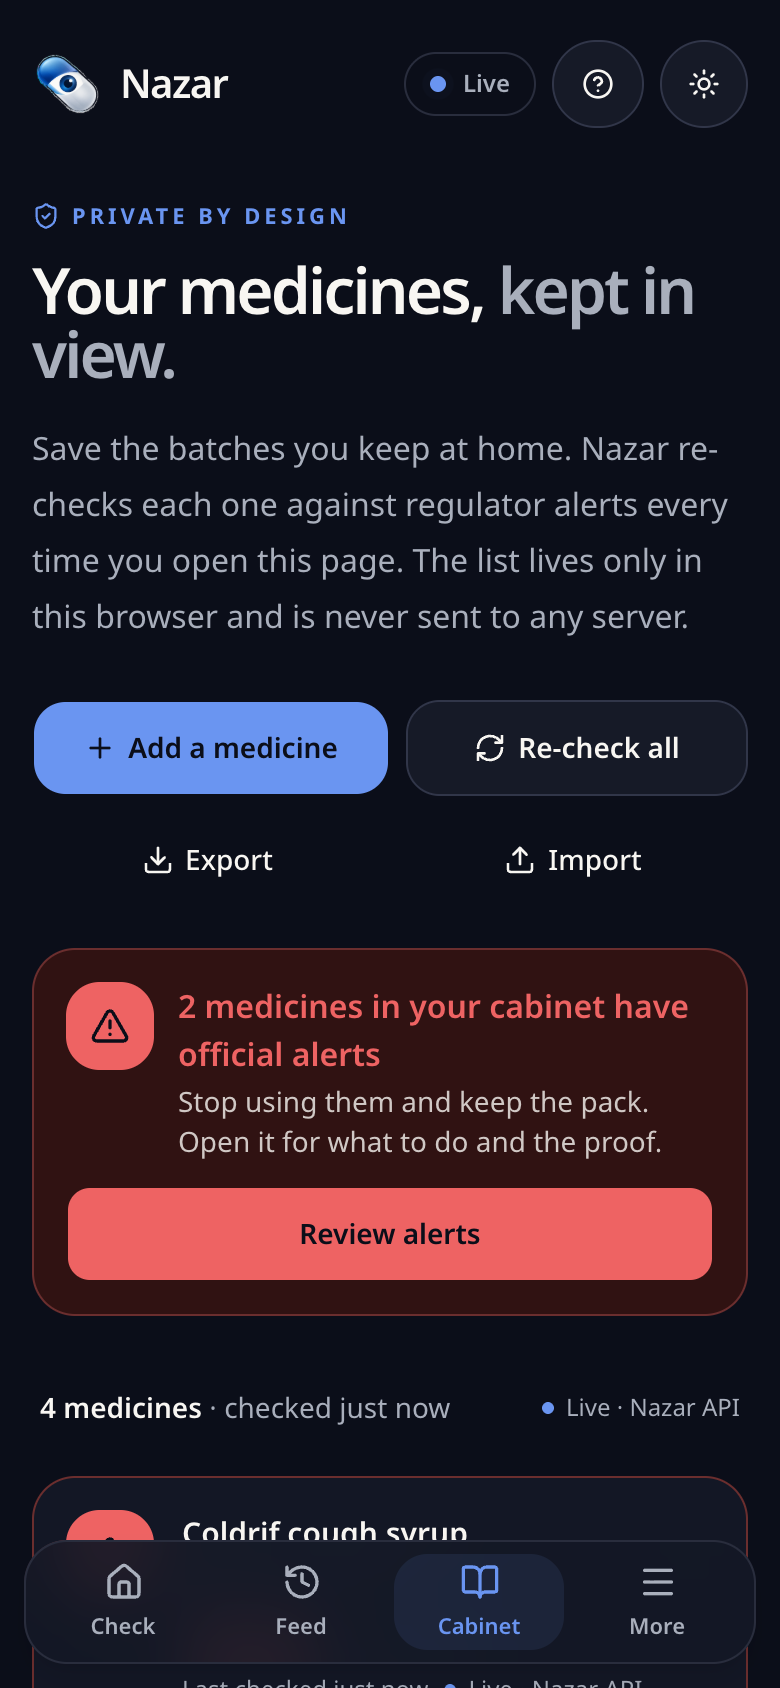
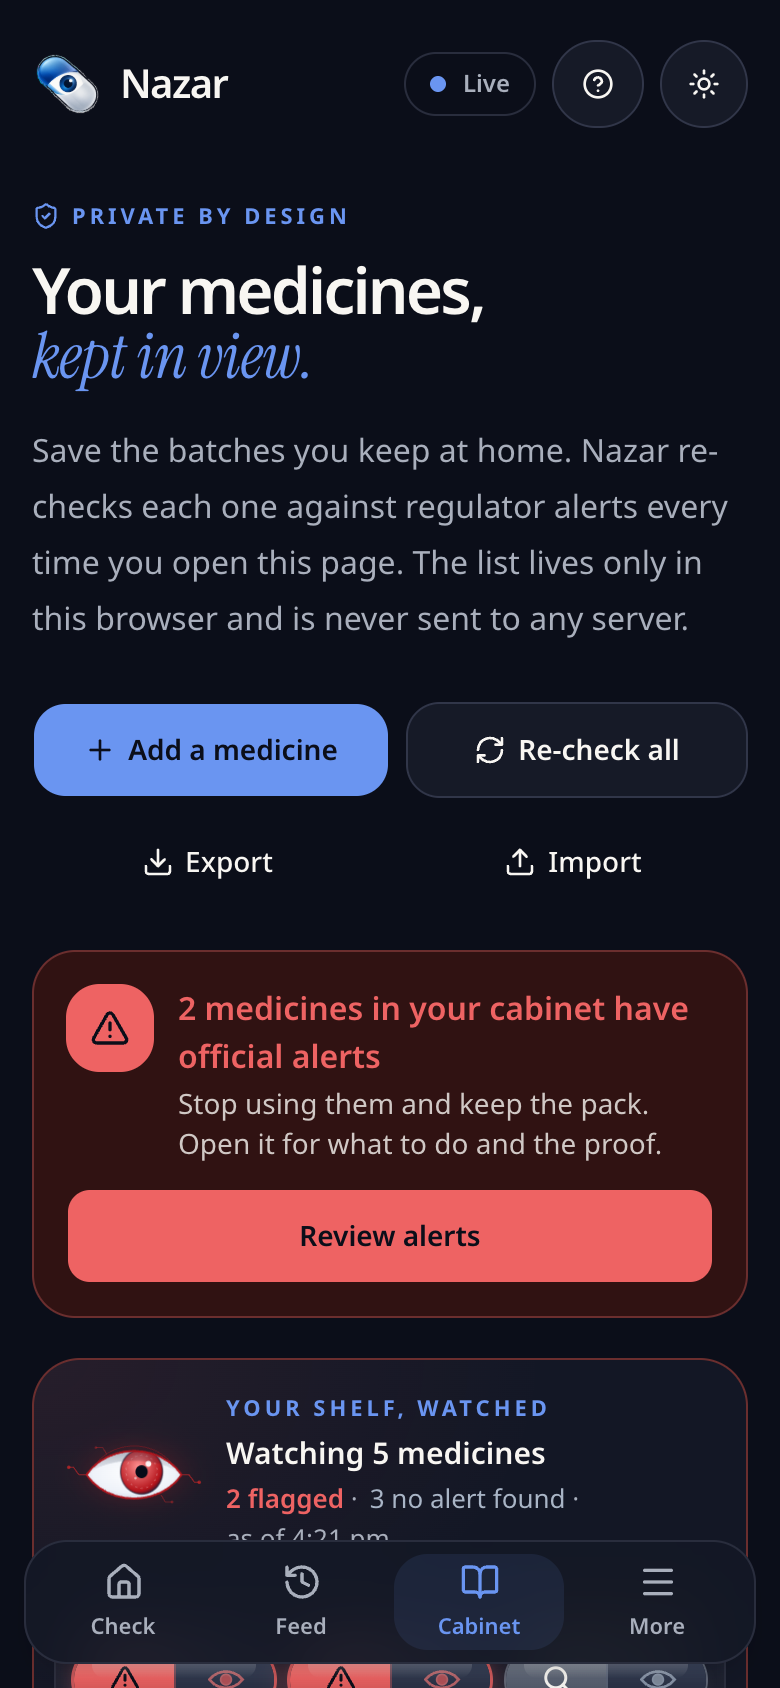
README: new screenshots; daily refresh of the site's saved snapshot
- Screenshots from the live site: the watching eye (idle and flagged),
  the Arkiv particle hero at rest and under the cursor, the Feed's India
  pulse, the Cabinet shelf, How it works, the scanner with the eye, and
  the /b/SR-13 share page with its preview card. Unused shots removed.
- Feature table and test counts updated; a note on how the pipeline
  keeps itself up to date.
- New workflow: once a day, fetch the API snapshot into
  public/data/snapshot.json and commit it only if the alert set changed
  (the snapshot's content hash), which redeploys the site.

diff --git a/README.md b/README.md
@@ -39,7 +39,8 @@ Nazar turns those scattered notices into one live, verifiable feed that a chemis
 
 | | Feature | What it does |
 |---|---|---|
-| 🔎 | **Check a batch** | Type the batch number from the pack and get one of four honest answers: **Flagged**, **Retracted**, **No alert found** or **Can't tell**. Look-alike characters (0/O, 1/I/L, 5/S, 8/B) only ever produce "Did you mean…?", never a flag. |
+| 🔎 | **Check a batch** | Type the batch number from the pack and get one of four honest answers: **Flagged**, **Retracted**, **No alert found** or **Can't tell**. Look-alike characters (0/O, 1/I/L, 5/S, 8/B) only ever produce "Did you mean…?", never a flag. A watching eye mirrors the check: it looks at the batch box while you type, scans while checking, then turns red, amber or slate (never green). |
+| 🔗 | **Share a result** | Every batch has a public page, `/b/SR-13`, with its own preview card for WhatsApp and social apps, the regulator notice, the Arkiv proof and "Check your own batch". Share, Copy link and WhatsApp sit right under "What to do"; `/?batch=` links open a check directly. |
 | 📷 | **Strip Scan** | Point the camera at the pack, or upload a photo. QR, Data Matrix and GS1 codes are decoded on the device (BarcodeDetector or zxing-wasm), with an OCR fallback for the printed "B.No." line. If the code and the printed batch disagree you see "Label details don't match. Show this pack to your chemist." Images never leave the phone. |
 | 🏷 | **Pack Reader** | The scanner reads the whole label on the device: product, composition and strengths, form, pack size, manufacturer and state, licence number, MRP and Schedule, each with a confidence you can edit. |
 | 🤖 | **About this medicine (opt-in)** | Tap "Show general information" for plain-language notes: what it is for, how it works, common side effects, when to get help, who should be careful, storage and prescription status. It comes from a strictly validated AI answer (Gemini) and is clearly labelled *AI-generated · not from a regulator*, kept apart from the official verdict. No doses, never "safe", and the batch number is never sent. Rate-limited per visitor, with a daily cap. |
@@ -47,40 +48,62 @@ Nazar turns those scattered notices into one live, verifiable feed that a chemis
 | 🧒 | **Child Shield** | Paediatric formulations with serious failures get a banner telling parents to contact a doctor now. |
 | ⚖ | **Severity with reasons** | A versioned rule table, not a black box: "Adulterated with a toxic glycol: base 5 · Paediatric formulation: +1 (capped at 5)". |
 | 🔗 | **On-chain proof** | Every result shows the chain of custody: regulator document → SHA-256 → Arkiv notice entity → this alert entity. It also shows the transaction link, an "Official Nazar publisher" check against `$creator`, and the Read-only and Anyone-can-keep-alive flags. |
-| 📰 | **Feed** | Every alert, newest first, grouped by month. Filter by severity, Child Shield, state of manufacture and source. Filters sync to the URL. |
-| 💊 | **Medicine cabinet** | Save the batches you keep at home. Each is re-checked whenever you open the page, flagged ones float to the top, and expired or expiring packs are called out. It lives only in your browser (export and import as JSON). |
-| ⛓ | **Arkiv directory** | A structured explorer of everything Nazar has on chain: live counts and breakdowns, filters that turn into Arkiv predicates, the **exact query string and an SDK snippet**, and attributes shown next to the payload. It can query Arkiv straight from your browser. |
+| 📰 | **Feed + India pulse** | Every alert, newest first. On top, the **India pulse**: a tile map of where failed batches were made, a monthly "seismograph" of severity, and headline counts, all from the saved snapshot. Tap a state to filter. Undated rows say "Date not given" and stay off the timeline. Filters sync to the URL. |
+| 💊 | **Your shelf, watched** | Save the batches you keep at home. They sit as capsules on a shelf: red flagged, amber can't tell, slate no alert. A watching eye re-checks them whenever you open the page, with a scan beam that settles each capsule as its answer lands. Expiring packs are marked. It lives only in your browser (export and import as JSON). |
+| ⛓ | **Arkiv directory** | Opens with Nazar's mark rebuilt from GPU particles that turn liquid under your cursor. Below it, a structured explorer of everything Nazar has on chain: live counts and breakdowns, filters that turn into Arkiv predicates, the **exact query string and an SDK snippet**, and attributes shown next to the payload. It can query Arkiv straight from your browser. |
 | 🤖 | **Nazar in your AI assistant** | A hosted MCP server lets Claude, ChatGPT, Cursor and other assistants check batches with the same four answers, cite the regulator notice and verify the alert on Arkiv. See [MCP server](#mcp-server). |
-| 📖 | **More** | How Nazar works, live source status, proof on Arkiv, privacy, settings and about. |
+| 📖 | **How it works** | "The life of one alert": six chapters following COLDRIF SR-13 from the WHO notice to your phone, with a scroll-driven chain of custody. Then live source status, proof on Arkiv, the MCP server, privacy, settings and about. |
 | ✨ | **First-run guide** | A short animated guide: where to find "B.No.", the four answers, and how the proof works. |
 
 **It keeps working when Nazar's servers don't.** Every check tries the Nazar API first, then reads Arkiv directly from the browser (filtered by the publisher's `$creator`), then Nazar's saved copy of every published alert: kept on the device, and also served by the website itself (`/data/snapshot.json`, refreshed on every build). Only with none of those, offline on a first visit, does it fall back to built-in demo data. The answer always says which source it came from.
 
 ## Screenshots
 
-| Check | Feed |
+| Check: the eye watches | Flagged: the eye turns red |
 |:---:|:---:|
-| ![Home: batch check, high-severity alerts from the live pipeline and Child Shield](docs/screenshots/home-desktop.png) | ![Feed of serious alerts grouped by month with filters](docs/screenshots/feed-desktop.png) |
+| ![Check page with the watching eye beside "Check the batch, not just the brand", the batch box and live high-severity alerts](docs/screenshots/home-desktop.png) | ![SR-13 checked: the eye has turned red above a flagged COLDRIF result with Child Shield and What to do](docs/screenshots/home-flagged-eye-desktop.png) |
+
+**Arkiv: every alert, verifiable by anyone.** The Nazar mark is rebuilt from GPU particles; move across it and it turns liquid, then settles back.
+
+| At rest | Under the cursor |
+|:---:|:---:|
+| ![Arkiv page hero: the Nazar capsule mark made of particles, "Every alert, verifiable by anyone", and the three steps from regulator to Arkiv to anyone](docs/screenshots/arkiv-hero-desktop.png) | ![The same hero with the capsule dissolving into liquid particles under the cursor](docs/screenshots/arkiv-hero-liquid-desktop.png) |
+
+**Feed: India pulse.** Where failed batches were made, and when, counted from the saved snapshot. Tap a state to filter the list.
+
+![India pulse: headline counts, a tile map of Indian states shaded by alert count with severity-5 and Child Shield marks, and a monthly severity seismograph](docs/screenshots/feed-india-pulse-desktop.png)
+
+**Cabinet: your shelf, watched.** Capsules take the colour of their answer; the eye re-checks them every time you open the page.
+
+![Cabinet shelf: COLDRIF SR-13 and Levcon-M as red flagged capsules, three slate "no alert found" capsules, an "Expires soon" chip and the red-eyed sentinel](docs/screenshots/cabinet-shelf-desktop.png)
+
+**How it works: the life of one alert.**
+
+| The story | The chain of custody |
+|:---:|:---:|
+| ![How it works hero: "How Nazar works, and how to check it", the watching eye and live numbers: sources on, alerts on Arkiv, the publisher wallet](docs/screenshots/how-it-works-desktop.png) | ![Chapter view: the batch becomes a case, with a sticky chain-of-custody stage that lights up as you scroll](docs/screenshots/how-it-works-journey-desktop.png) |
 
 | Arkiv directory | Filtered: Child Shield, severity 4+ | Entity: attributes vs payload |
 |:---:|:---:|:---:|
 | ![Arkiv directory: live counts of notices, alerts and heartbeat with the live query panel](docs/screenshots/arkiv-directory-desktop.png) | ![Directory filtered to paediatric alerts at severity 4 or above, with the matching Arkiv query](docs/screenshots/arkiv-filtered-desktop.png) | ![Entity drawer: official publisher, flags, expiry estimate and typed attributes](docs/screenshots/arkiv-entity-drawer-desktop.png) |
 
+**Share a result:** every batch has a public page with its own preview card.
+
+| Preview card for /b/SR-13 | The share page |
+|:---:|:---:|
+| ![Preview card: batch SR-13, COLDRIF, Flagged, WHO, with "Verify on Arkiv"](docs/screenshots/share-card.png) | ![Public share page for SR-13 on mobile: flagged, Child Shield, What to do and the proof](docs/screenshots/mobile-share-page.png) |
+
 **About this medicine (opt-in, AI-generated, kept apart from the official verdict):**
 
 ![Medicine card under a flagged SR-13 result: the official "don't use it" banner first, then AI-generated general information in six story cards with a not-medical-advice footer](docs/screenshots/medicine-card-desktop.png)
 
-| Pack Reader | Medicine card on mobile | QR scan | Label mismatch |
+| Scanner | Pack Reader | QR scan | Label mismatch |
 |:---:|:---:|:---:|:---:|
-| ![Pack Reader: batch DOBS3975 read from printed text at 91% confidence, with product, composition, form, pack size, maker, state, licence and MRP from the label](docs/screenshots/mobile-pack-reader-dark.png) | ![AI-generated card for Paracetamol 650 mg: uses, prescription status, look-alike names and Nazar's alert count](docs/screenshots/mobile-medicine-card-dark.png) | ![Scanner read SR-13 from a GS1 QR code, with expiry](docs/screenshots/mobile-scanner-dark.png) | ![Scanner warning that the QR code and the printed batch disagree](docs/screenshots/mobile-scanner-mismatch-dark.png) |
+| ![Scanner prompt on mobile with the watching eye: read the pack with your camera, upload a photo or type it](docs/screenshots/mobile-scanner-eye-dark.png) | ![Pack Reader: batch DOBS3975 read from printed text at 91% confidence, with product, composition, form, pack size, maker, state, licence and MRP from the label](docs/screenshots/mobile-pack-reader-dark.png) | ![Scanner read SR-13 from a GS1 QR code, with expiry](docs/screenshots/mobile-scanner-dark.png) | ![Scanner warning that the QR code and the printed batch disagree](docs/screenshots/mobile-scanner-mismatch-dark.png) |
 
-| Flagged on mobile | "How do we know?" |
-|:---:|:---:|
-| ![Flagged result for SR-13 on mobile, dark mode](docs/screenshots/mobile-result-dark.png) | ![Proof sheet with publisher, notice, Arkiv entity and source hash](docs/screenshots/mobile-proof-dark.png) |
-
-| Medicine cabinet | More | First-run guide |
-|:---:|:---:|:---:|
-| ![Cabinet with two flagged medicines floated to the top](docs/screenshots/mobile-cabinet-dark.png) | ![More: how it works, sources, proof on Arkiv, privacy, settings](docs/screenshots/mobile-more-dark.png) | ![Animated onboarding with the Nazar mark](docs/screenshots/onboarding-desktop-dark.png) |
+| Flagged on mobile | "How do we know?" | Shelf on mobile | How it works on mobile |
+|:---:|:---:|:---:|:---:|
+| ![Flagged result for SR-13 on mobile, dark mode](docs/screenshots/mobile-result-dark.png) | ![Proof sheet with publisher, notice, Arkiv entity and source hash](docs/screenshots/mobile-proof-dark.png) | ![Cabinet on mobile: two flagged medicines, the review banner and the watched shelf](docs/screenshots/mobile-cabinet-dark.png) | ![How it works on mobile: hero, live numbers and section chips](docs/screenshots/mobile-more-dark.png) |
 
 ## Try it
 
@@ -247,12 +270,15 @@ To publish for real:
 |---|---|---|
 | Backend unit + golden | **389 tests.** Domain rules, sources (real HTML/JSON fixtures), harvest, extraction golden files for every real PDF, resolve, publisher (dry-run, idempotency, chunking, catch-up), reader, Arkiv directory, snapshot and caches, medicine explainer (schema, guardrails, limits, Gemini retry and fallback), API, MCP server (tools, stateless HTTP round trip, limits), watchdogs, egress check, secret redaction | `cd Nazar-backend && pnpm test` |
 | Scanner parsers | 22 tests: GS1 element strings and Digital Links, pack key-value text, full pack labels, noise | `cd Nazar-frontend && pnpm test:scan` |
-| Frontend e2e | ~250 checks in headless Chrome over CDP, with the API down and with a mocked API. Covers onboarding, every result state, look-alikes, the proof sheet and on-chain module, Feed, Cabinet, More, the Arkiv directory, Strip Scan (upload path), 360–430px layouts, dark mode, reduced motion and console errors | `cd Nazar-frontend && pnpm build && pnpm e2e` |
+| Frontend e2e | **365 checks** (247 with the API down, 118 with a mocked API) in headless Chrome over CDP. Covers onboarding, every result state, look-alikes, the watching eye, the proof sheet, sharing and `/b/` pages, the saved-copy fallback, Feed and the India pulse, the Cabinet shelf, How it works, the Arkiv directory, Strip Scan (upload path), 360–430px layouts, dark mode, reduced motion and console errors | `cd Nazar-frontend && pnpm build && pnpm e2e` |
 | Backend live | Hits the real regulator sites (opt-in) | `pnpm test:live` |
+
+**How it stays up to date.** The worker on Railway checks CDSCO every 6 hours and the state regulators every 3 hours (`NAZAR_CRON_CDSCO`, `NAZAR_CRON_STATES`). A new notice is fetched, read, resolved and published to Arkiv with no one in the loop, and the heartbeat entity renews every 5 minutes. The API and its snapshot read the same ledger, so new alerts reach the app on the next check.
 
 GitHub Actions:
 - **CI**, on every push: backend typecheck and tests, frontend typecheck, scanner tests and build, then the e2e suite.
 - **Pipeline**, every 6 hours: harvest, extract and publish. Dry-run unless `NAZAR_PUBLISH_MODE=live` is set and the publisher key is in the repository secrets.
+- **Refresh saved snapshot**, daily: fetches the API's snapshot into `Nazar-frontend/public/data/snapshot.json` and commits it only if the alert set changed, which redeploys the site with a fresh offline copy.
 - **Monitor**, hourly: fails, which emails the owner, if the API is down, CDSCO is unreachable from the server's region, the on-chain heartbeat is stale, or SR-13 stops being flagged.
 
 ## Project structure
